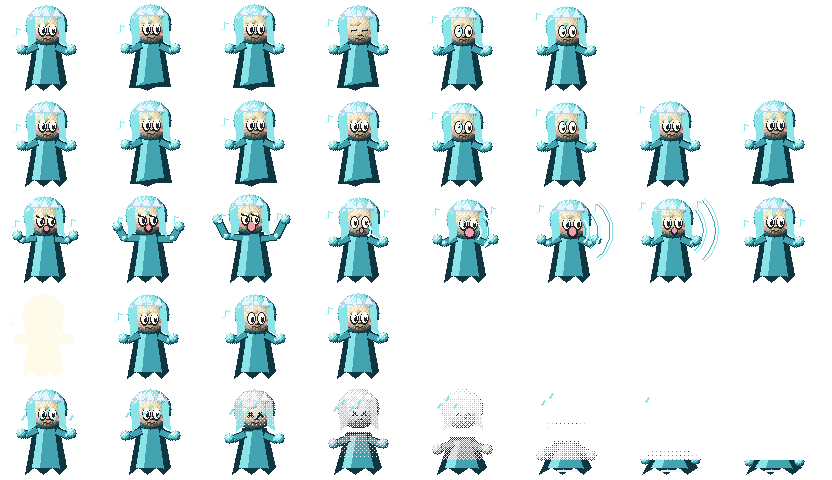
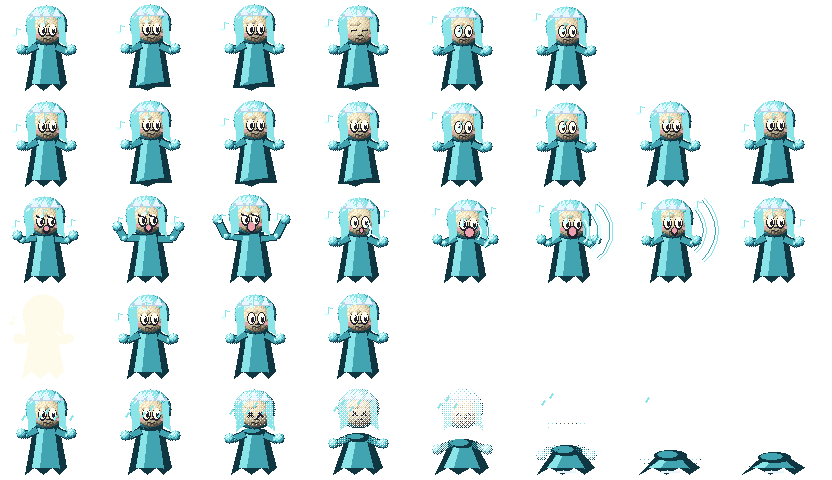
Undervault redo: Valka's gown heap no longer flat-cut, archer's spilled quiver lies on the ground

diff --git a/scripts/vault_slime_redraw.py b/scripts/vault_slime_redraw.py
@@ -354,10 +354,19 @@ def archer(clip, n):
     y = 33+bob*.8-fall*21-hurt*.5
     a.limb([(-12, y-4), (-18, y+16)], GOLD, 6)
     for k in range(3):
-        xx = -20+k*4-fall*8
-        yy = y+19+fall*3
-        a.line([(xx, yy-13), (xx+fall*8, yy+3)], 8, 1)
-        a.poly([(xx-2, yy+3), (xx+1, yy+8), (xx+3, yy+3)], 37)
+        xx = -20+k*4
+        yy = y+19
+        if not fall:
+            a.line([(xx, yy-13), (xx, yy+3)], 8, 1)
+            a.poly([(xx-2, yy+3), (xx+1, yy+8), (xx+3, yy+3)], 37)
+            continue
+        t = sm(fall)                                          # the quiver spills: each arrow tips over and lies on the ground
+        mid = mixp((xx, yy-5), (-26+k*9, 3+k % 2*2), t)
+        ang = mix(math.pi/2, .12*(k-1), t)
+        dx, dy = math.cos(ang)*8, math.sin(ang)*8
+        a.line([(mid[0]-dx, mid[1]-dy), (mid[0]+dx, mid[1]+dy)], 8, 1)
+        tx, ty = mid[0]+dx, mid[1]+dy
+        a.poly([(tx, ty+2.5), (tx+3.5, ty), (tx, ty-2.5)] if t > .6 else [(tx-2, ty), (tx+1, ty+5), (tx+3, ty)], 37)
     a.poly([(-10, y-8), (10, y-8), (13, 11), (-14, 13)], 26)
     ribs(a, y, fall, spread=.8)
     hx = -fall*12-(draw-1)*.3
@@ -558,11 +567,16 @@ def choir(clip, n):
     # Veil and gown remain cloth; the lowest hem point rests on the ground row, only the spirit above it floats.
     scal = [3, 0, 4, 1, 4, 0, 3, 1]
     hem = [scal[(k+int(floaty > 0)) % 8] for k in range(8)]
-    wide = 1+fall*.35
-    a.poly([(-12, y+14), (12, y+14), ((20+sway)*wide, hem[0]+4), (13*wide, hem[1]), (6*wide, hem[2]+3), (-3*wide, 0),
+    wide = 1+fall*.5
+    gy = y+14-fall*10                                            # on defeat the gown sags into a rounded heap
+    a.poly([(-12, gy), (12, gy), ((20+sway)*wide, hem[0]+4), (13*wide, hem[1]), (6*wide, hem[2]+3), (-3*wide, 0),
             (-12*wide, hem[4]+3), ((-21+sway)*wide, hem[5])], 20)
-    a.poly([(-9, y+11), (7, y+13), (13*wide, hem[3]+5), (-12*wide, hem[6]+4)], 22)
-    a.poly([(-8, y+10), (-3, y+10), (-7*wide, hem[7]+6), (-14*wide, hem[6]+4)], 23)
+    a.poly([(-9, gy-3), (7, gy-1), (13*wide, hem[3]+5), (-12*wide, hem[6]+4)], 22)
+    a.poly([(-8, gy-4), (-3, gy-4), (-7*wide, hem[7]+6), (-14*wide, hem[6]+4)], 23)
+    if fall:
+        a.ellipse(0, gy-1, 11*wide, 3+fall*2, 20)                  # a round crown of folds, so the heap has no flat cut edge
+        a.ellipse(-3, gy, 7*wide, 2+fall, 22)
+    base = np.array(a.im)                                         # the gown is solid cloth: only the spirit dissolves
     for sign in (-1, 1):                                          # arms: resting, spread up for the song, slack on defeat
         rest = (sign*25, y+5)
         up = (sign*(31+wu*3), y+19+wu*8)
@@ -590,14 +604,18 @@ def choir(clip, n):
             ring_arc(a, mx, my, r, TEAL[4] if k > .6 else TEAL[3], width=2 if k > .6 else 1)
             ring_arc(a, mx, my, r-3, TEAL[2], width=1)
     if clip == 'die':
-        # Progressive gaps dissolve the spirit upward, not the solid gown below it.
-        dissolve(a, fall, 82, 14)
+        # Progressive gaps dissolve the spirit (face, veil, arms) upward; the gown beneath stays and settles.
+        dissolve(a, fall, 84, 8)
+        arr = np.array(a.im)
+        arr[(arr == 0) & (base > 0)] = base[(arr == 0) & (base > 0)]
+        a.im = Image.fromarray(arr, 'P')
+        a.d = ImageDraw.Draw(a.im)
         for j in range(max(0, 7-n)):
             x = -24+j*8
             y2 = 55+n*3+(j % 2)*7
             a.line([(x, y2), (x+3, y2+4)], 23, 2)
         if n >= 5:                                                # the diadem lies on the ground at the end
-            a.line([(-9, 3), (-3, 4), (3, 3), (9, 4)], 14, 3)
+            a.line([(-9, 2), (-3, 3), (3, 2), (9, 3)], 14, 3)
     else:
         for j in range(2 if clip != 'attack' else 3):
             x = -30+j*28

diff --git a/docs/vault-slime-art.md b/docs/vault-slime-art.md
@@ -18,7 +18,10 @@ delegates). Seven new native PixelFlow sources (prefix `valhallasc_vault_slime_s
   acolyte's robe hem and Valka's gown hem touch the ground row (only the spirit above bobs). `frame()` asserts every living
   frame rests on the anchor row and rolls death frames onto it.
 - **Deaths:** unchanged concepts from v1 (bones scatter, robe settles, armour drops, Valka dissolves upward leaving gown
-  and diadem, stone fractures, crown tumbles first).
+  and diadem, stone fractures, crown tumbles first). Owner review fixes: Valka's gown is drawn first and protected from
+  the dissolve (only face, veil and arms dissolve) and sags into a rounded heap, because dissolving everything above a
+  fixed height left a flat-cut slab; the archer's quiver arrows tip over and lie on the ground, because their red tips
+  hung in the air above the fallen body. Both are asserted (`redHigh`, `topWidth <= 75% of maxWidth`) and fail on the earlier art.
 - **Frames (w x h, anchor):** thrall 114x92 (43,86), archer 114x88 (42,82), acolyte 116x104 (37,98), Hrolf 124x102
   (47,96), Valka 104x96 (48,90), Ironwake 126x114 (52,108), Haldor 114x98 (39,92); measured with `extents`. The art pixel
   scale is unchanged; the ground shadow scales with frame width (1.08x-1.31x). The click hitbox comes from the idle
